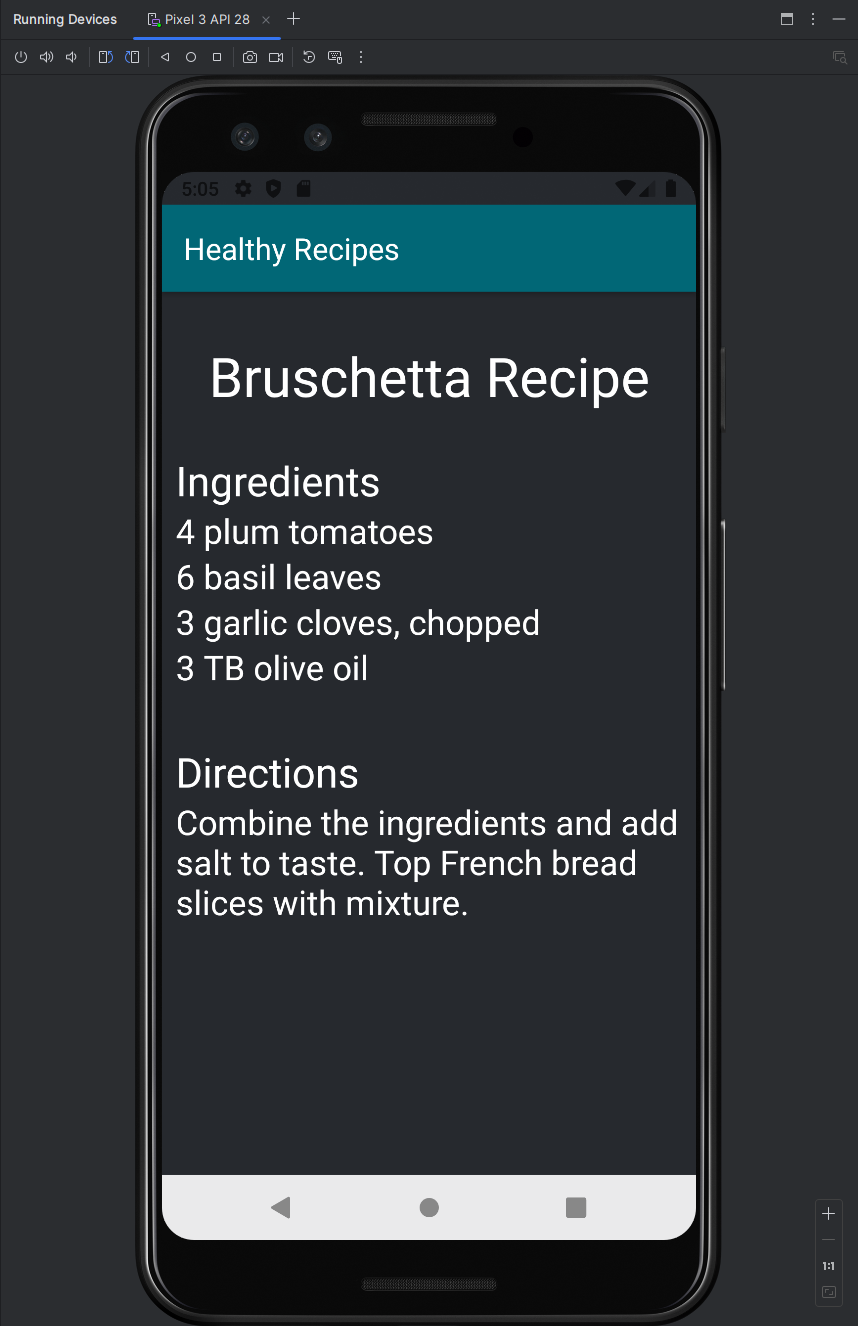
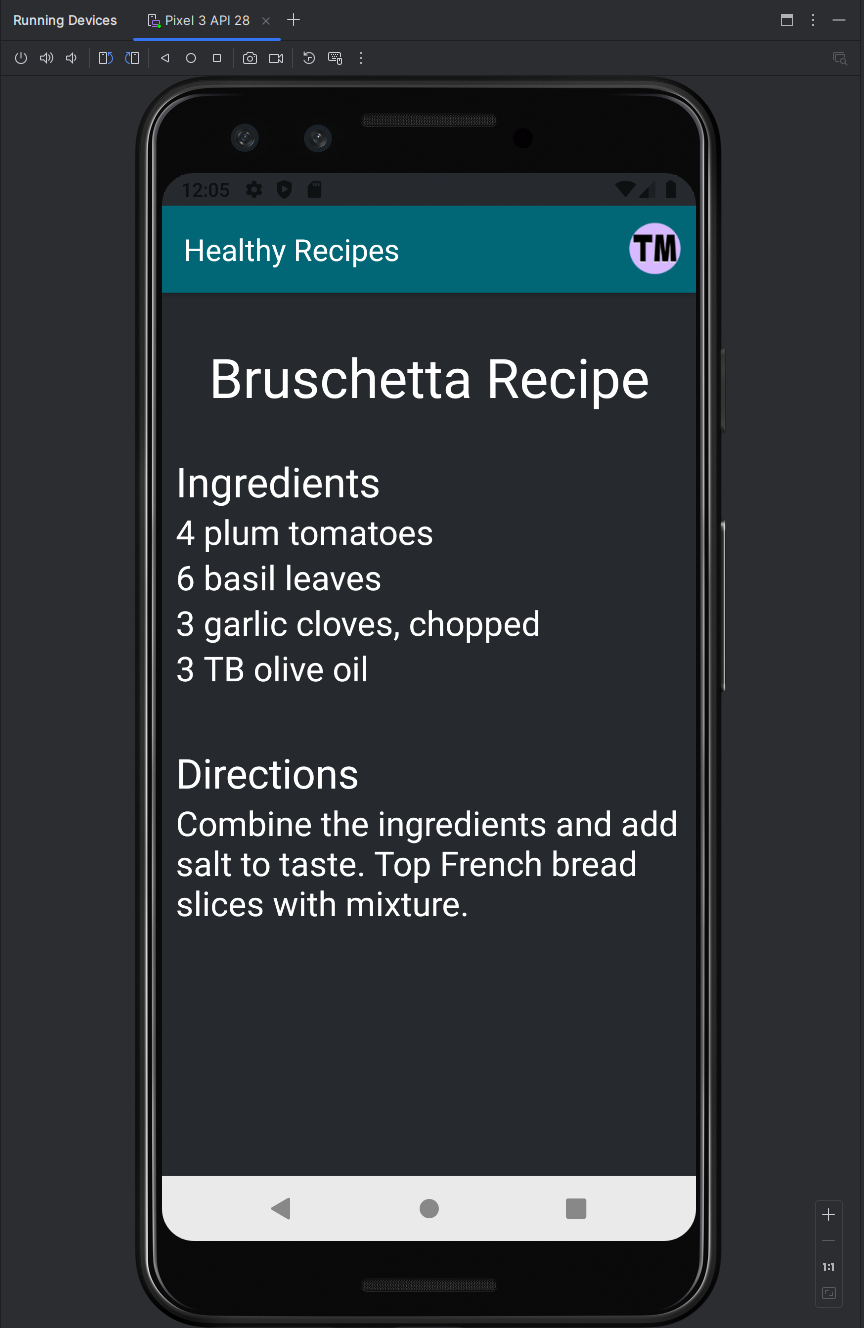
update a2 images

diff --git a/README.md b/README.md
@@ -19,8 +19,11 @@
 
 2. [A2 README.md](a2/README.md "My A2 README.md file")
     - Screenshot of Working App With Both Interfaces
-    - Working App Showing Changed Background Color and Text Color
-    - Screenshots of Skill Sets
+    - Change Background Colors of app, button, and toolbar.
+    - Add background border to image.
+    - Add favicon in toolbar.
+    - Skill Sets
+    - Chapter Questions (CHs 3, 4)
 
 
 3. [A3 README.md](a3/README.md "My A3 README.md file")

diff --git a/a2/README.md b/a2/README.md
@@ -12,8 +12,11 @@
 *Three Parts*
 
 1. Screenshot of Working App With Both Interfaces
-2. Skill Sets
-3. Chapter Questions (CHs 3, 4)
+2. Change Background Colors of app, button, and toolbar.
+3. Add background border to image.
+4. Add favicon in toolbar.
+5. Skill Sets
+6. Chapter Questions (CHs 3, 4)
 
 **README.md file should include the following items:**
 
